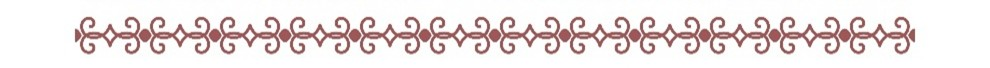
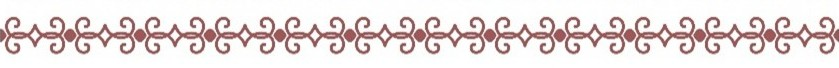
Enlarge and reupload border assets

diff --git a/style.css b/style.css
@@ -7,8 +7,8 @@
   --radius: 14px;
   --shadow: 0 16px 34px rgba(31, 31, 31, 0.12);
   --ease-premium: cubic-bezier(0.22, 1, 0.36, 1);
-  --frame-side-width: 42px;
-  --frame-top-height: 24px;
+  --frame-side-width: 60px;
+  --frame-top-height: 68px;
 }
 
 * {
@@ -52,7 +52,7 @@ main {
   background-size: 100% auto;
   background-repeat: repeat-y;
   background-position: top center;
-  opacity: 0.78;
+  opacity: 0.82;
   pointer-events: none;
 }
 
@@ -121,7 +121,7 @@ main {
   background-repeat: repeat-x;
   background-size: auto 100%;
   background-position: center top;
-  opacity: 0.72;
+  opacity: 0.84;
 }
 
 .site-header.scrolled {
@@ -602,7 +602,7 @@ section {
   background-repeat: repeat-x;
   background-size: auto 100%;
   background-position: center top;
-  opacity: 0.76;
+  opacity: 0.86;
 }
 
 .reveal {
@@ -693,8 +693,8 @@ section {
 
 @media (max-width: 640px) {
   :root {
-    --frame-side-width: 22px;
-    --frame-top-height: 18px;
+    --frame-side-width: 30px;
+    --frame-top-height: 48px;
   }
 
   .temple-layout::before,
